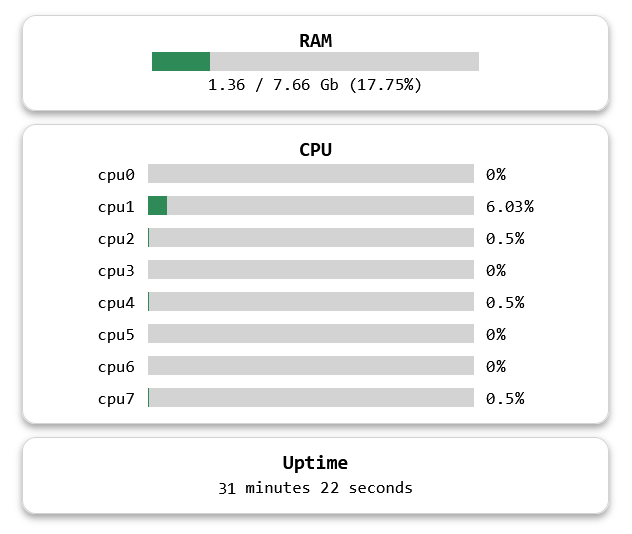
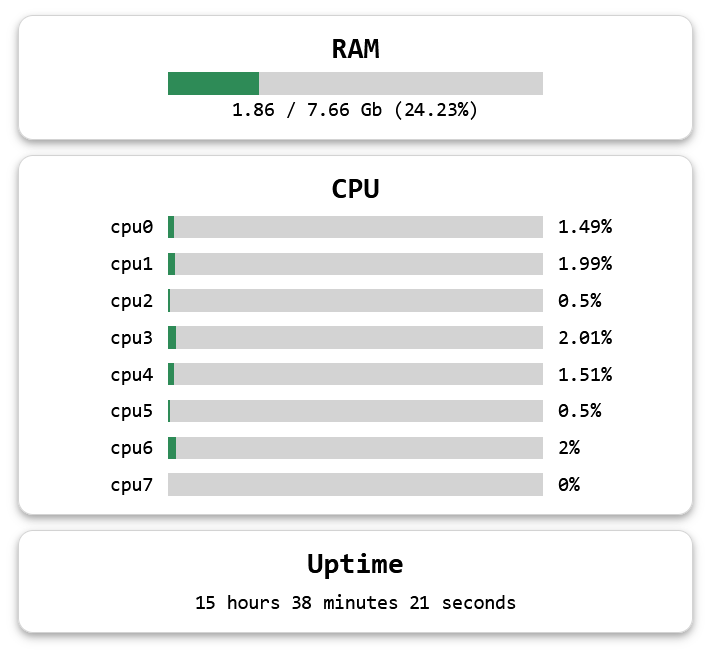
Better frontend (#10)

diff --git a/webapp/src/routes/+page.svelte b/webapp/src/routes/+page.svelte
@@ -81,6 +81,10 @@
 	};
 </script>
 
+<svelte:head>
+	<title>Simple system monitor</title>
+</svelte:head>
+
 <div class="container">
 	<div class="cards">
 		<Card header="RAM" content={ram} />
@@ -103,11 +107,11 @@
 {/snippet}
 
 {#snippet cpu()}
-	<div class="list">
+	<div class="cpu-list">
 		{#each cpus as cpu (cpu.id)}
 			{#if cpu.id != ''}
-				<div class="line">
-					<span>{cpu.id}</span>
+				<div class="cpu-line">
+					<span class="cpu-id">{cpu.id}</span>
 					<LoadLine percent={cpu.load * 100} />
 					<NumberFlow value={cpu.load} format={{ style: 'percent', maximumFractionDigits: 2 }} />
 				</div>
@@ -169,16 +173,25 @@
 		gap: 10px;
 	}
 
-	.list {
+	.cpu-list {
 		display: flex;
 		flex-direction: column;
 		gap: 5px;
 	}
 
-	.line {
-		display: flex;
+	.cpu-line {
+		/* display: flex;
 		flex-direction: row;
 		gap: 10px;
+		align-items: center; */
+
+		display: grid;
 		align-items: center;
+		grid-template-columns: repeat(3, 1fr);
+		gap: 10px;
+	}
+
+	.cpu-id {
+		text-align: right;
 	}
 </style>

diff --git a/webapp/src/lib/components/Card.svelte b/webapp/src/lib/components/Card.svelte
@@ -3,7 +3,7 @@
 </script>
 
 <div class="card">
-	<h3>{header}</h3>
+	<h2>{header}</h2>
 	<div class="content">
 		{@render content()}
 	</div>
@@ -14,6 +14,7 @@
 		display: flex;
 		flex-direction: column;
 		align-items: center;
+		gap: 5px;
 
 		padding: 10px;
 
